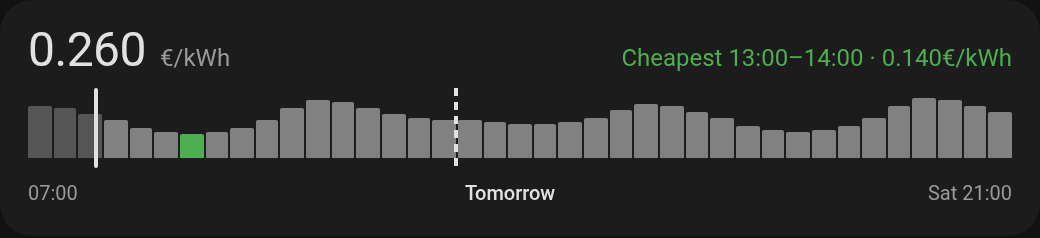
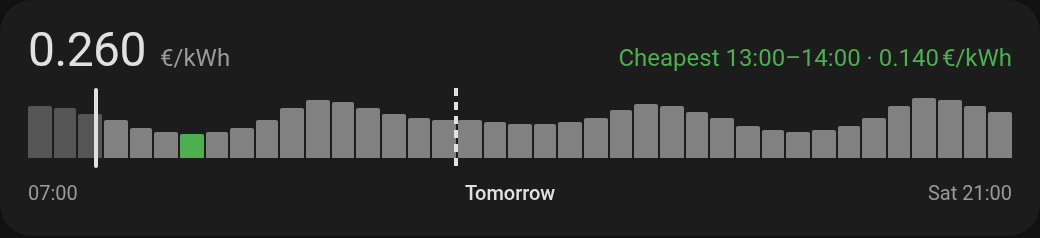
The cheapest hour uses the price's own unit instead of a fixed €/kWh

Changed region(s): [[0.5846, 0.2059, 0.9231, 0.2941]]

diff --git a/home-utility-card.js b/home-utility-card.js
@@ -849,7 +849,7 @@ class HomeUtilityCard extends HTMLElement {
       cheapest =
         `<span class="cheap">${esc(L.cheapest)} ` +
         `${hhmm(p.cheapest.from)}\u2013${hhmm(p.cheapest.till)} \u00b7 ` +
-        `${fixed(p.cheapest.value, d)}€/kWh</span>`;
+        `${amount(p.cheapest.value, d, p.unit)}</span>`;
     }
 
     rows.push(
